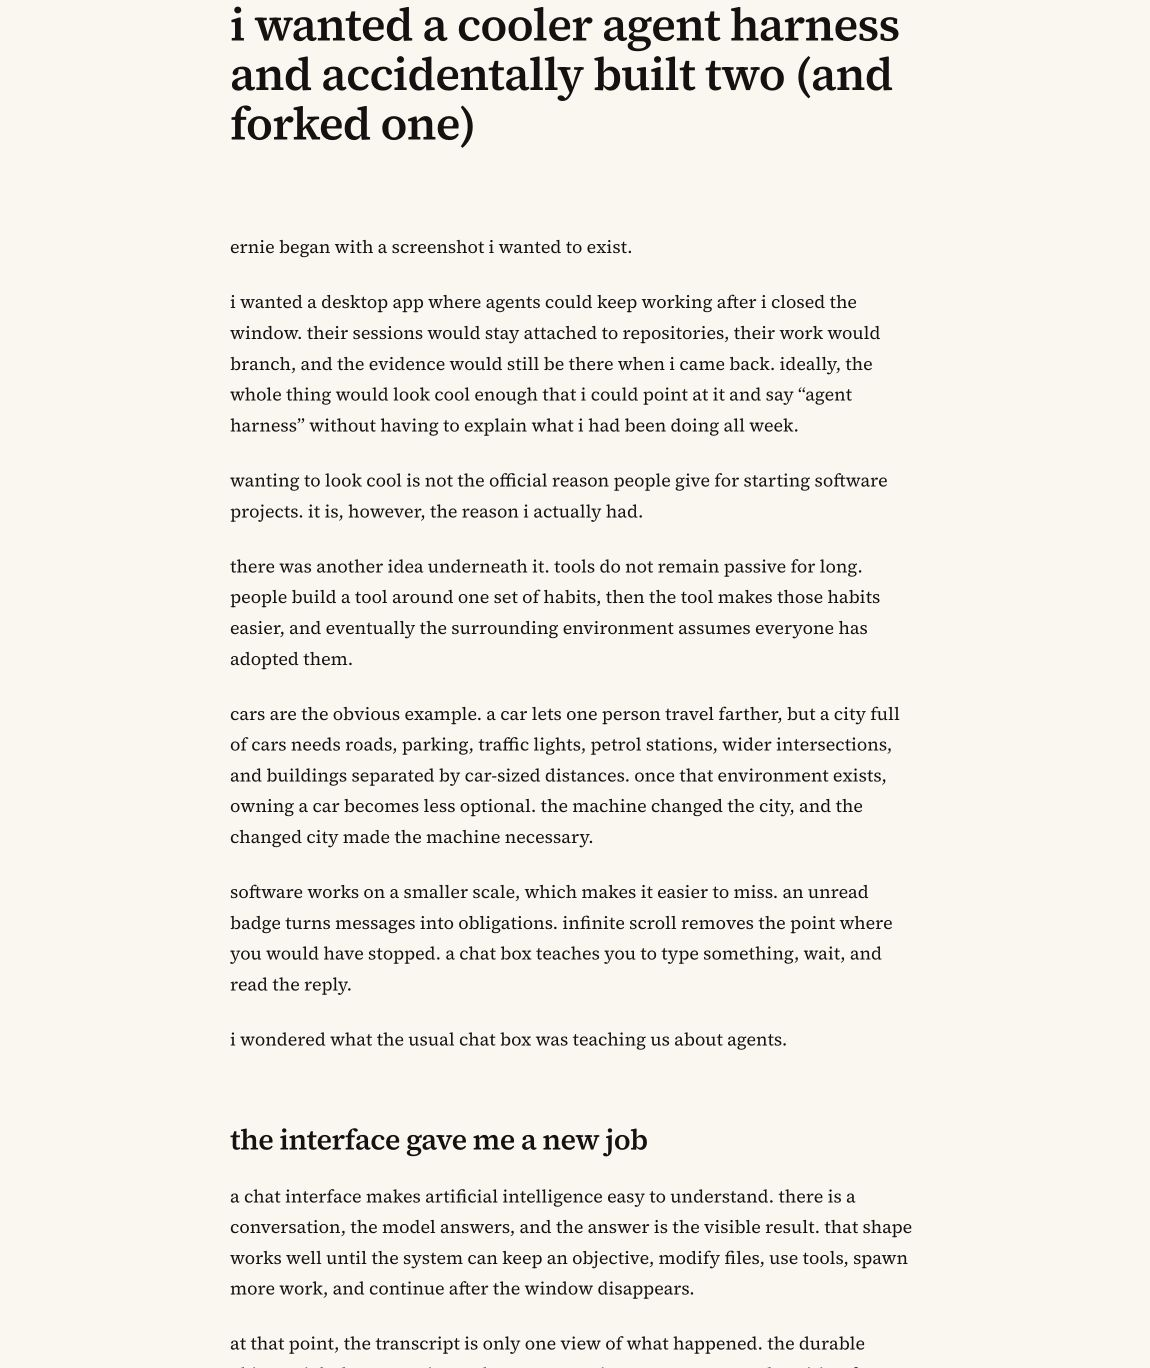
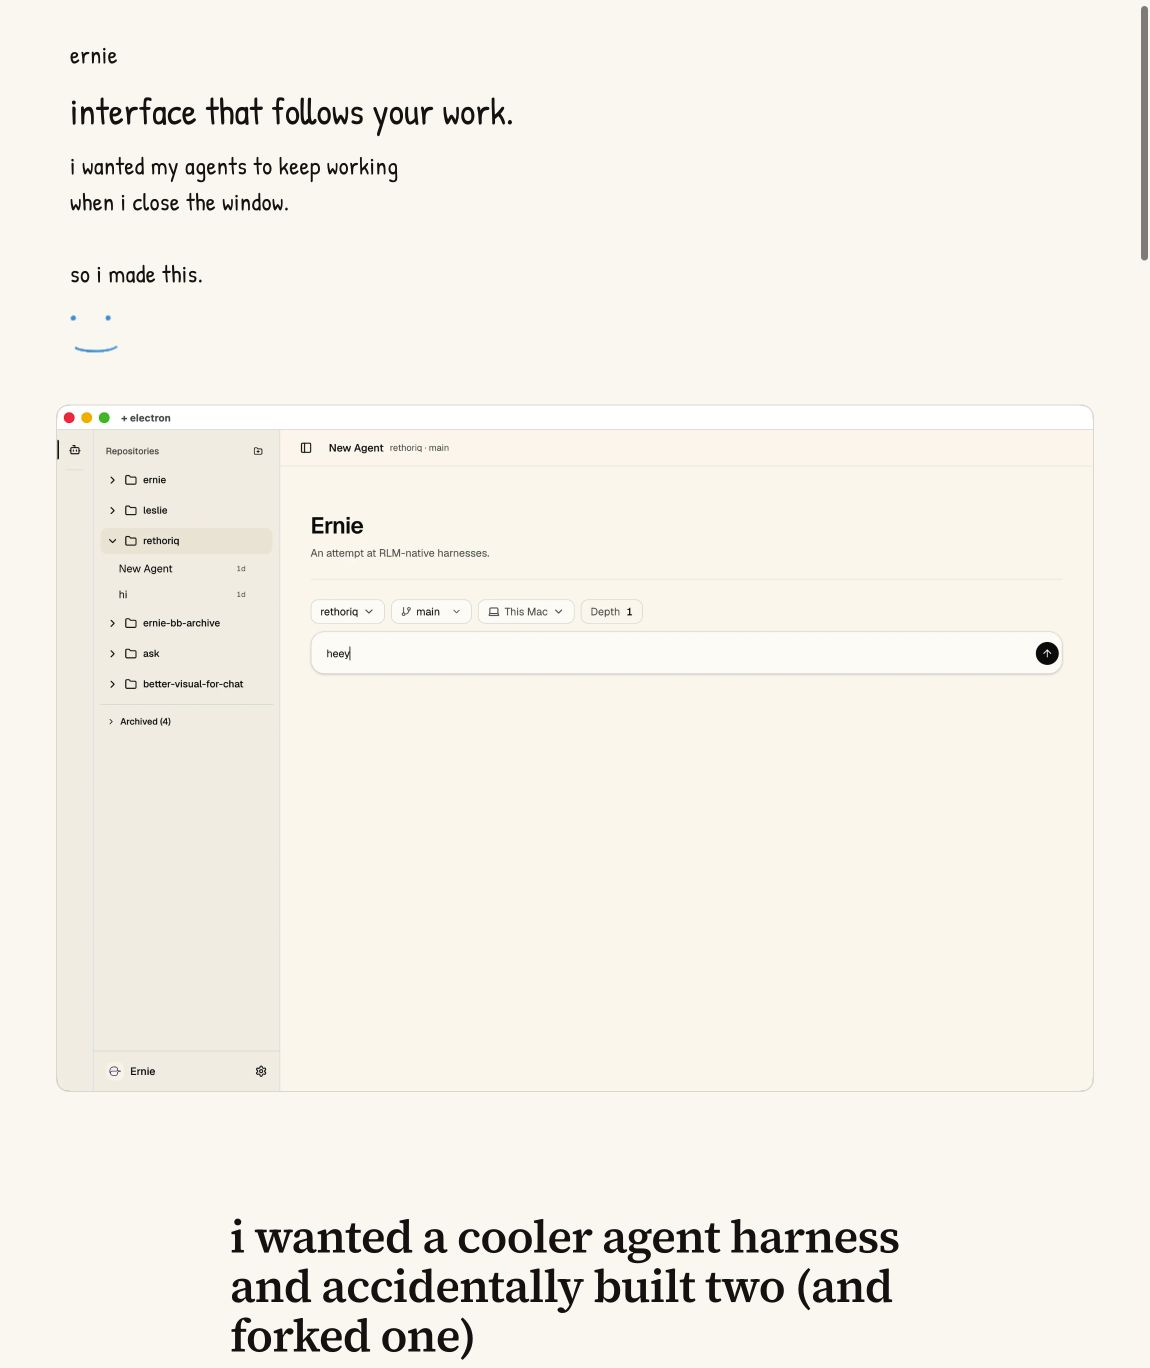
Explain Ernie's original context handoff

diff --git a/docs/ernie-development.md b/docs/ernie-development.md
@@ -2,6 +2,15 @@
 
 ernie began with a screenshot i wanted to exist.
 
+before the screenshot, i wanted one task to keep its context while i passed it
+from one model to another and back again. changing the model should not have
+meant starting the work’s story over. the repository, the decisions, and the
+unfinished parts should still belong to the same task.
+
+that was why i kept reaching for the words “server” and “daemon” before i could
+properly explain the rest of the system. the context needed to live somewhere
+that neither the current model nor the current window owned.
+
 i wanted a desktop app where agents could keep working after i closed the
 window. their sessions would stay attached to repositories, their work would
 branch, and the evidence would still be there when i came back. ideally, the
@@ -132,6 +141,11 @@ is useful if you are trying to see which decisions are still moving.
 
 i did not need to become bb or deepseek harness. i needed to understand why
 they put certain responsibilities on opposite sides of a boundary.
+
+ernie still does not make the model handoff seamless. the server-and-thingy
+language came before the implementation. but the instinct behind it survived:
+durable task context belongs below any one model adapter, so an interface can
+leave and another model can arrive without either one becoming the work itself.
 
 ernie now has a short path from the interface to prime agent:
 
